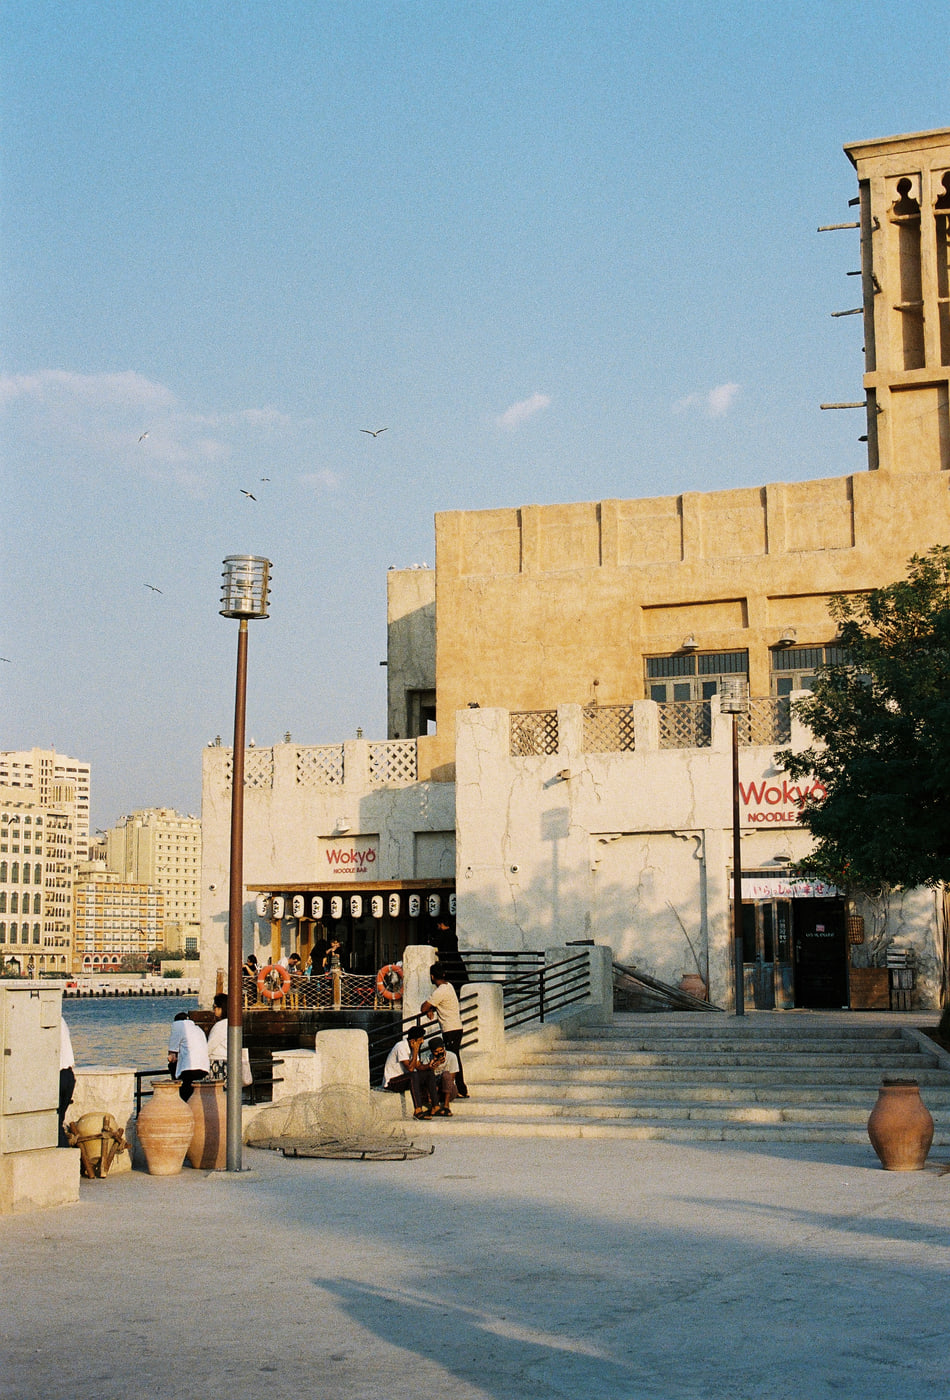
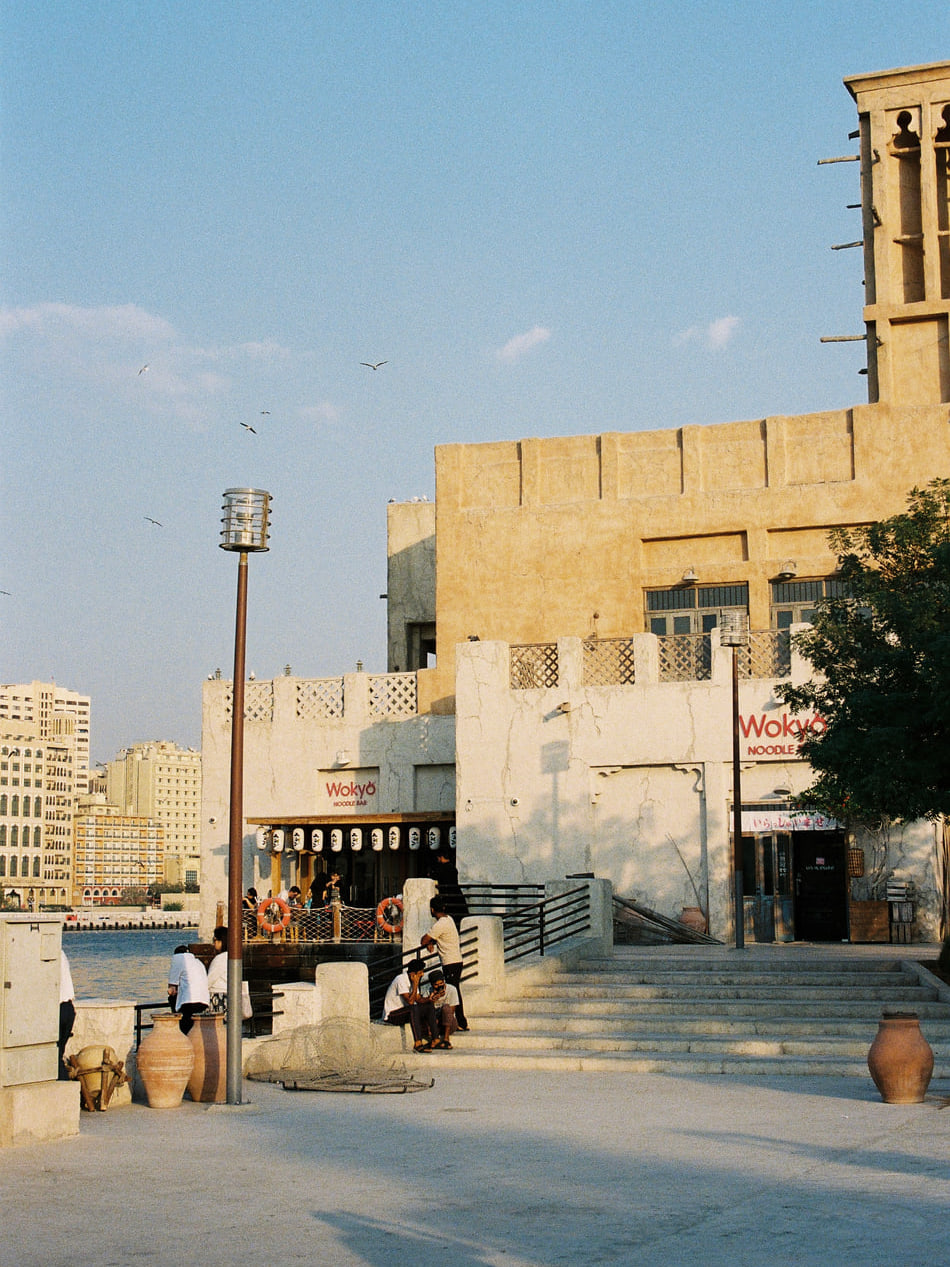
Crop the gallery photographs and lay them out in rows
Every photograph is centre-cropped to exactly 4:3 or 3:4, whichever it
was already closer to, then capped at 1600px on the long edge and
recompressed - 15.2MB down to 4.6MB across the ten. Uploads are renamed
film-01 through film-10 so the manifest reads in order.

The scatter becomes three rows of large, medium and small, with the
three sizes changing places from row to row so the column edges never
line up. Everything sits inside a 6% margin on both sides; nothing
bleeds off an edge any more.

Rows are spaced so the drift cannot close the gap between them. Two
plates separate by at most DRIFT times the difference in their depths,
196px at the widest pairing here, against row gaps of 500px and up, so
the arrangement holds at every scroll position rather than only at rest.

Corner radius drops from 24px to 6px. It is set explicitly rather than
from the radius scale, which is built around --radius: 1rem for UI
cards and is too generous for a photograph.

Verified across eleven scroll positions at 1440x900: side margin never
below 86px, which is the 6% asked for, and no two plates intersect at
any point.

film-08 is cropped and committed but unplaced - nine slots do not take
ten photographs. It can be swapped into any slot.

Claude-Session: https://claude.ai/code/session_01EVKjDxVsV4CsmR7FS9F8Lf

diff --git a/client/src/components/Gallery.tsx b/client/src/components/Gallery.tsx
@@ -5,11 +5,33 @@ import { useEffect, useRef, useState } from "react";
 import film01 from "@assets/film-01.jpg";
 import film02 from "@assets/film-02.jpg";
 import film03 from "@assets/film-03.jpg";
+import film04 from "@assets/film-04.jpg";
+import film05 from "@assets/film-05.jpg";
+import film06 from "@assets/film-06.jpg";
+import film07 from "@assets/film-07.jpg";
+import film09 from "@assets/film-09.jpg";
+import film10 from "@assets/film-10.jpg";
 
+// Every photograph is cropped to 4:3 or 3:4, so a plate's shape is one of two
+// and the rows keep a rhythm instead of taking whatever the camera gave.
+const LANDSCAPE = 4 / 3;
+const PORTRAIT = 3 / 4;
+
+/*
+  film-08 is cropped and in the repository but unplaced: the layout runs three
+  rows of three, and ten photographs do not divide into that. Swap it into any
+  slot below to trade it for the one there.
+*/
 const PHOTOS = [
-  { src: film01, ratio: 2063 / 1400 },
-  { src: film02, ratio: 2063 / 1400 },
-  { src: film03, ratio: 950 / 1400 },
+  { src: film01, ratio: LANDSCAPE },
+  { src: film02, ratio: LANDSCAPE },
+  { src: film03, ratio: PORTRAIT },
+  { src: film04, ratio: PORTRAIT },
+  { src: film05, ratio: LANDSCAPE },
+  { src: film06, ratio: PORTRAIT },
+  { src: film07, ratio: PORTRAIT },
+  { src: film09, ratio: PORTRAIT },
+  { src: film10, ratio: PORTRAIT },
 ];
 
 /*
@@ -19,31 +41,35 @@ const PHOTOS = [
   that is large, quick and responsive reads as close, and separating any of those
   from the others would read as three unrelated animations sharing a screen.
 
-  Positions are percentages of a stage two viewports tall, not of the section.
-  The stage is deliberately taller than the screen: the scatter is never all in
-  view, so it takes a few screens of scrolling to see, and the emptiness between
-  plates is the point rather than a gap to fill.
+  The plates sit in three rows of large, medium and small, and the three sizes
+  change places from row to row so the column edges never line up. Everything
+  stays inside a 6% margin on both sides, and rows are spaced far enough apart
+  that the drift cannot close the gap: two plates separate by at most DRIFT
+  times the difference in their depths, which is 196px at the widest pairing
+  here, against gaps of 500px and up.
 
-  Widths track depth, roughly 19vw at the back to 31vw at the front. The spread
-  is modest — plates shrunk far enough to read as distant just look small — so
-  what separates near from far is mostly how fast they move.
-
-  Plates may run off any edge, and may cross the copy; a scatter that fits
-  neatly inside its frame looks composed rather than glimpsed.
+  Positions are percentages of the stage, which is four viewports tall — the
+  scatter is never all in view, so seeing it takes a few screens, and the
+  emptiness between rows is the point rather than a gap to fill.
 */
 const PLATES = [
-  { photo: 2, left: "5%", top: "3%", width: "31vw", depth: 1 },
-  { photo: 0, left: "47%", top: "13%", width: "21vw", depth: 0.3 },
-  { photo: 1, left: "70%", top: "1%", width: "25vw", depth: 0.6 },
-  { photo: 2, left: "25%", top: "36%", width: "19vw", depth: 0.15 },
-  { photo: 1, left: "57%", top: "39%", width: "29vw", depth: 0.85 },
-  { photo: 0, left: "2%", top: "56%", width: "23vw", depth: 0.45 },
-  { photo: 2, left: "76%", top: "64%", width: "27vw", depth: 0.7 },
-  { photo: 0, left: "28%", top: "74%", width: "30vw", depth: 0.95 },
-  { photo: 1, left: "64%", top: "88%", width: "21vw", depth: 0.25 },
+  // Row one: large, small, medium.
+  { photo: 0, left: "6%", top: "5%", width: "33.4vw", depth: 0.95 },
+  { photo: 6, left: "43.8%", top: "9%", width: "19.4vw", depth: 0.3 },
+  { photo: 2, left: "67.6%", top: "6.5%", width: "26.4vw", depth: 0.65 },
+
+  // Row two: medium, large, small.
+  { photo: 4, left: "6%", top: "39%", width: "26.4vw", depth: 0.6 },
+  { photo: 5, left: "36.8%", top: "37%", width: "33.4vw", depth: 1 },
+  { photo: 7, left: "74.6%", top: "41%", width: "19.4vw", depth: 0.25 },
+
+  // Row three: small, medium, large.
+  { photo: 8, left: "6%", top: "72%", width: "19.4vw", depth: 0.35 },
+  { photo: 1, left: "29.8%", top: "69%", width: "26.4vw", depth: 0.7 },
+  { photo: 3, left: "60.6%", top: "70.5%", width: "33.4vw", depth: 0.9 },
 ];
 
-const STAGE_HEIGHT = "200vh";
+const STAGE_HEIGHT = "360vh";
 
 /*
   Blank space ahead of the stage, one viewport deep. The copy pins as the
@@ -53,13 +79,13 @@ const STAGE_HEIGHT = "200vh";
 const LEAD = "100vh";
 
 // Lead plus stage, plus room at the end for the last plates to clear.
-const SECTION_HEIGHT = "360vh";
+const SECTION_HEIGHT = "500vh";
 
 // Pixels a plate at depth 1 drifts across the section's full pass through the
 // viewport, and how far it leans toward the pointer. The drift is large on
 // purpose: at a smaller figure the near and far plates travel at rates too
 // close together to read as depth rather than as drift for its own sake.
-const DRIFT = 340;
+const DRIFT = 280;
 const SWAY = 30;
 
 function Plate({
@@ -105,7 +131,7 @@ function Plate({
         aria-hidden
         loading="lazy"
         decoding="async"
-        className="w-full rounded-3xl object-cover shadow-2xl shadow-black/30"
+        className="w-full rounded-[6px] object-cover shadow-xl shadow-black/25"
         style={{ aspectRatio: String(photo.ratio) }}
       />
     </motion.div>
@@ -199,7 +225,7 @@ export default function Gallery({ bgColor }: { bgColor: string }) {
               aria-hidden
               loading="lazy"
               decoding="async"
-              className="w-full rounded-3xl object-cover"
+              className="w-full rounded-[6px] object-cover"
               style={{ aspectRatio: String(photo.ratio) }}
             />
           ))}
